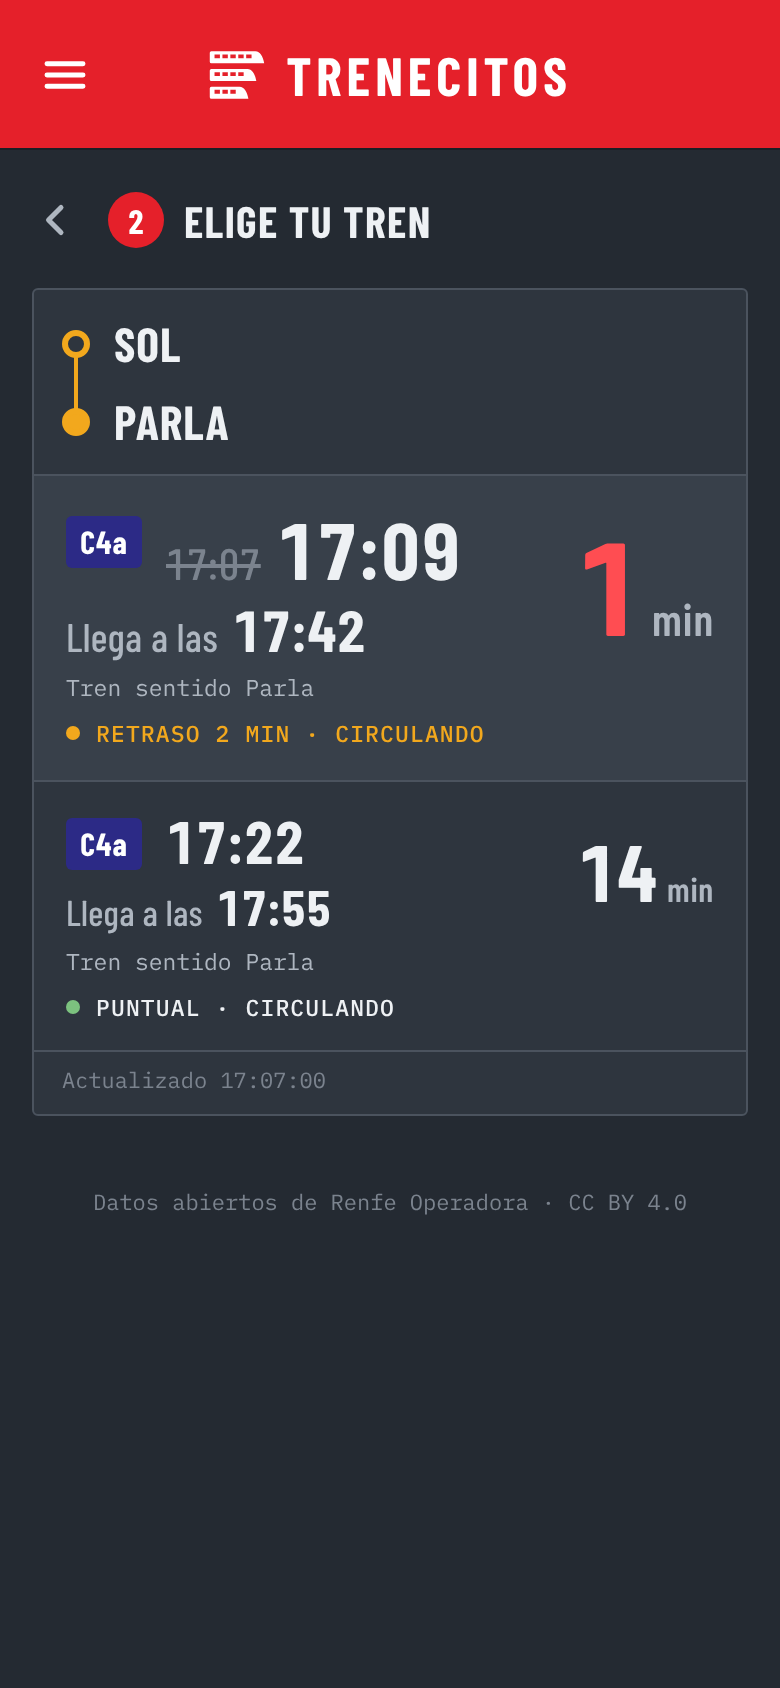
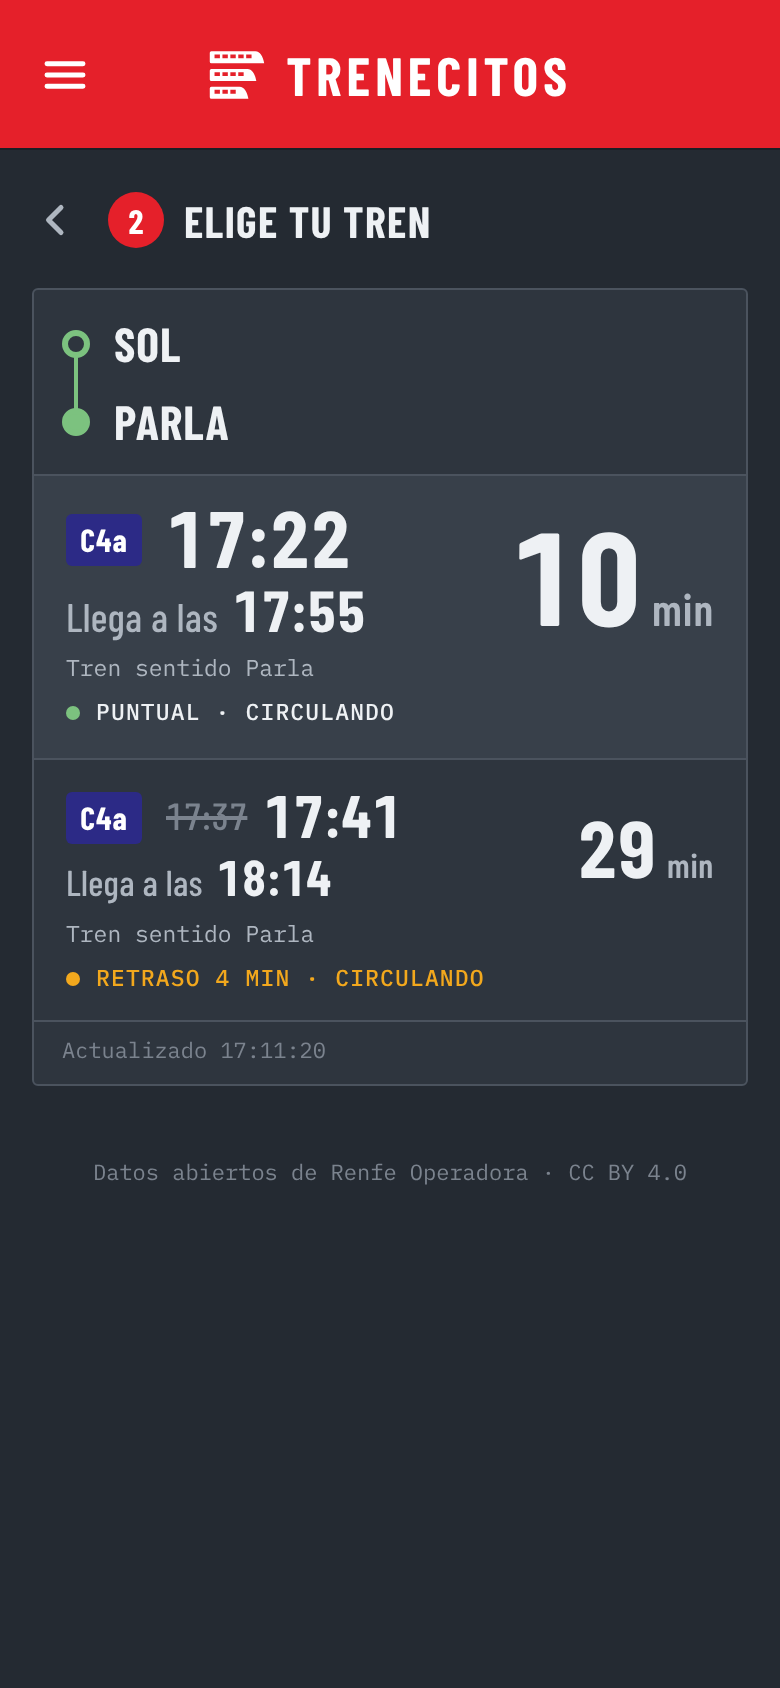
Paso 2: línea, hora tachada y hora centradas; vista previa con corte en diagonal y nuevo eslogan
- og.png: el rojo entra en diagonal desde la mitad inferior hasta antes de la esquina superior derecha;
  eslogan "Cercanías Madrid, al minuto" + "Elige tu tren y síguelo hasta tu parada."
- Capturas rehechas.

Claude-Session: https://claude.ai/code/session_01XLSZweWBaZnbtfzxbgLFJy

diff --git a/styles.css b/styles.css
@@ -441,4 +441,12 @@ svg { display: block; }
 .tr__state { grid-area: st; margin-top: 8px; }
 .tr--next .tr__open { padding-top: 16px; padding-bottom: 16px; }
 .tr--next .badge { margin: 0; }
-.tr__top .badge, .tr--next .tr__top .badge { margin-top: 4px; }
+/* Línea, hora tachada y hora: centradas en la misma línea (interlineado recortado a la altura de las cifras) */
+.tr__top .badge, .tr--next .tr__top .badge { margin: 0; flex: none; }
+.tr__dep { display: flex; align-items: center; gap: 8px; line-height: .74; }
+.tr__dep s { margin: 0; line-height: .74; }
+/* Las cifras de Barlow quedan algo bajas en su caja: se bajan la etiqueta y la hora tachada para centrarlas a ojo (medido) */
+.tr__top .badge { position: relative; top: 2px; }
+.tr--next .tr__top .badge { top: 3px; }
+.tr__dep s { position: relative; top: 1px; }
+.tr--next .tr__dep s { top: 0; }
